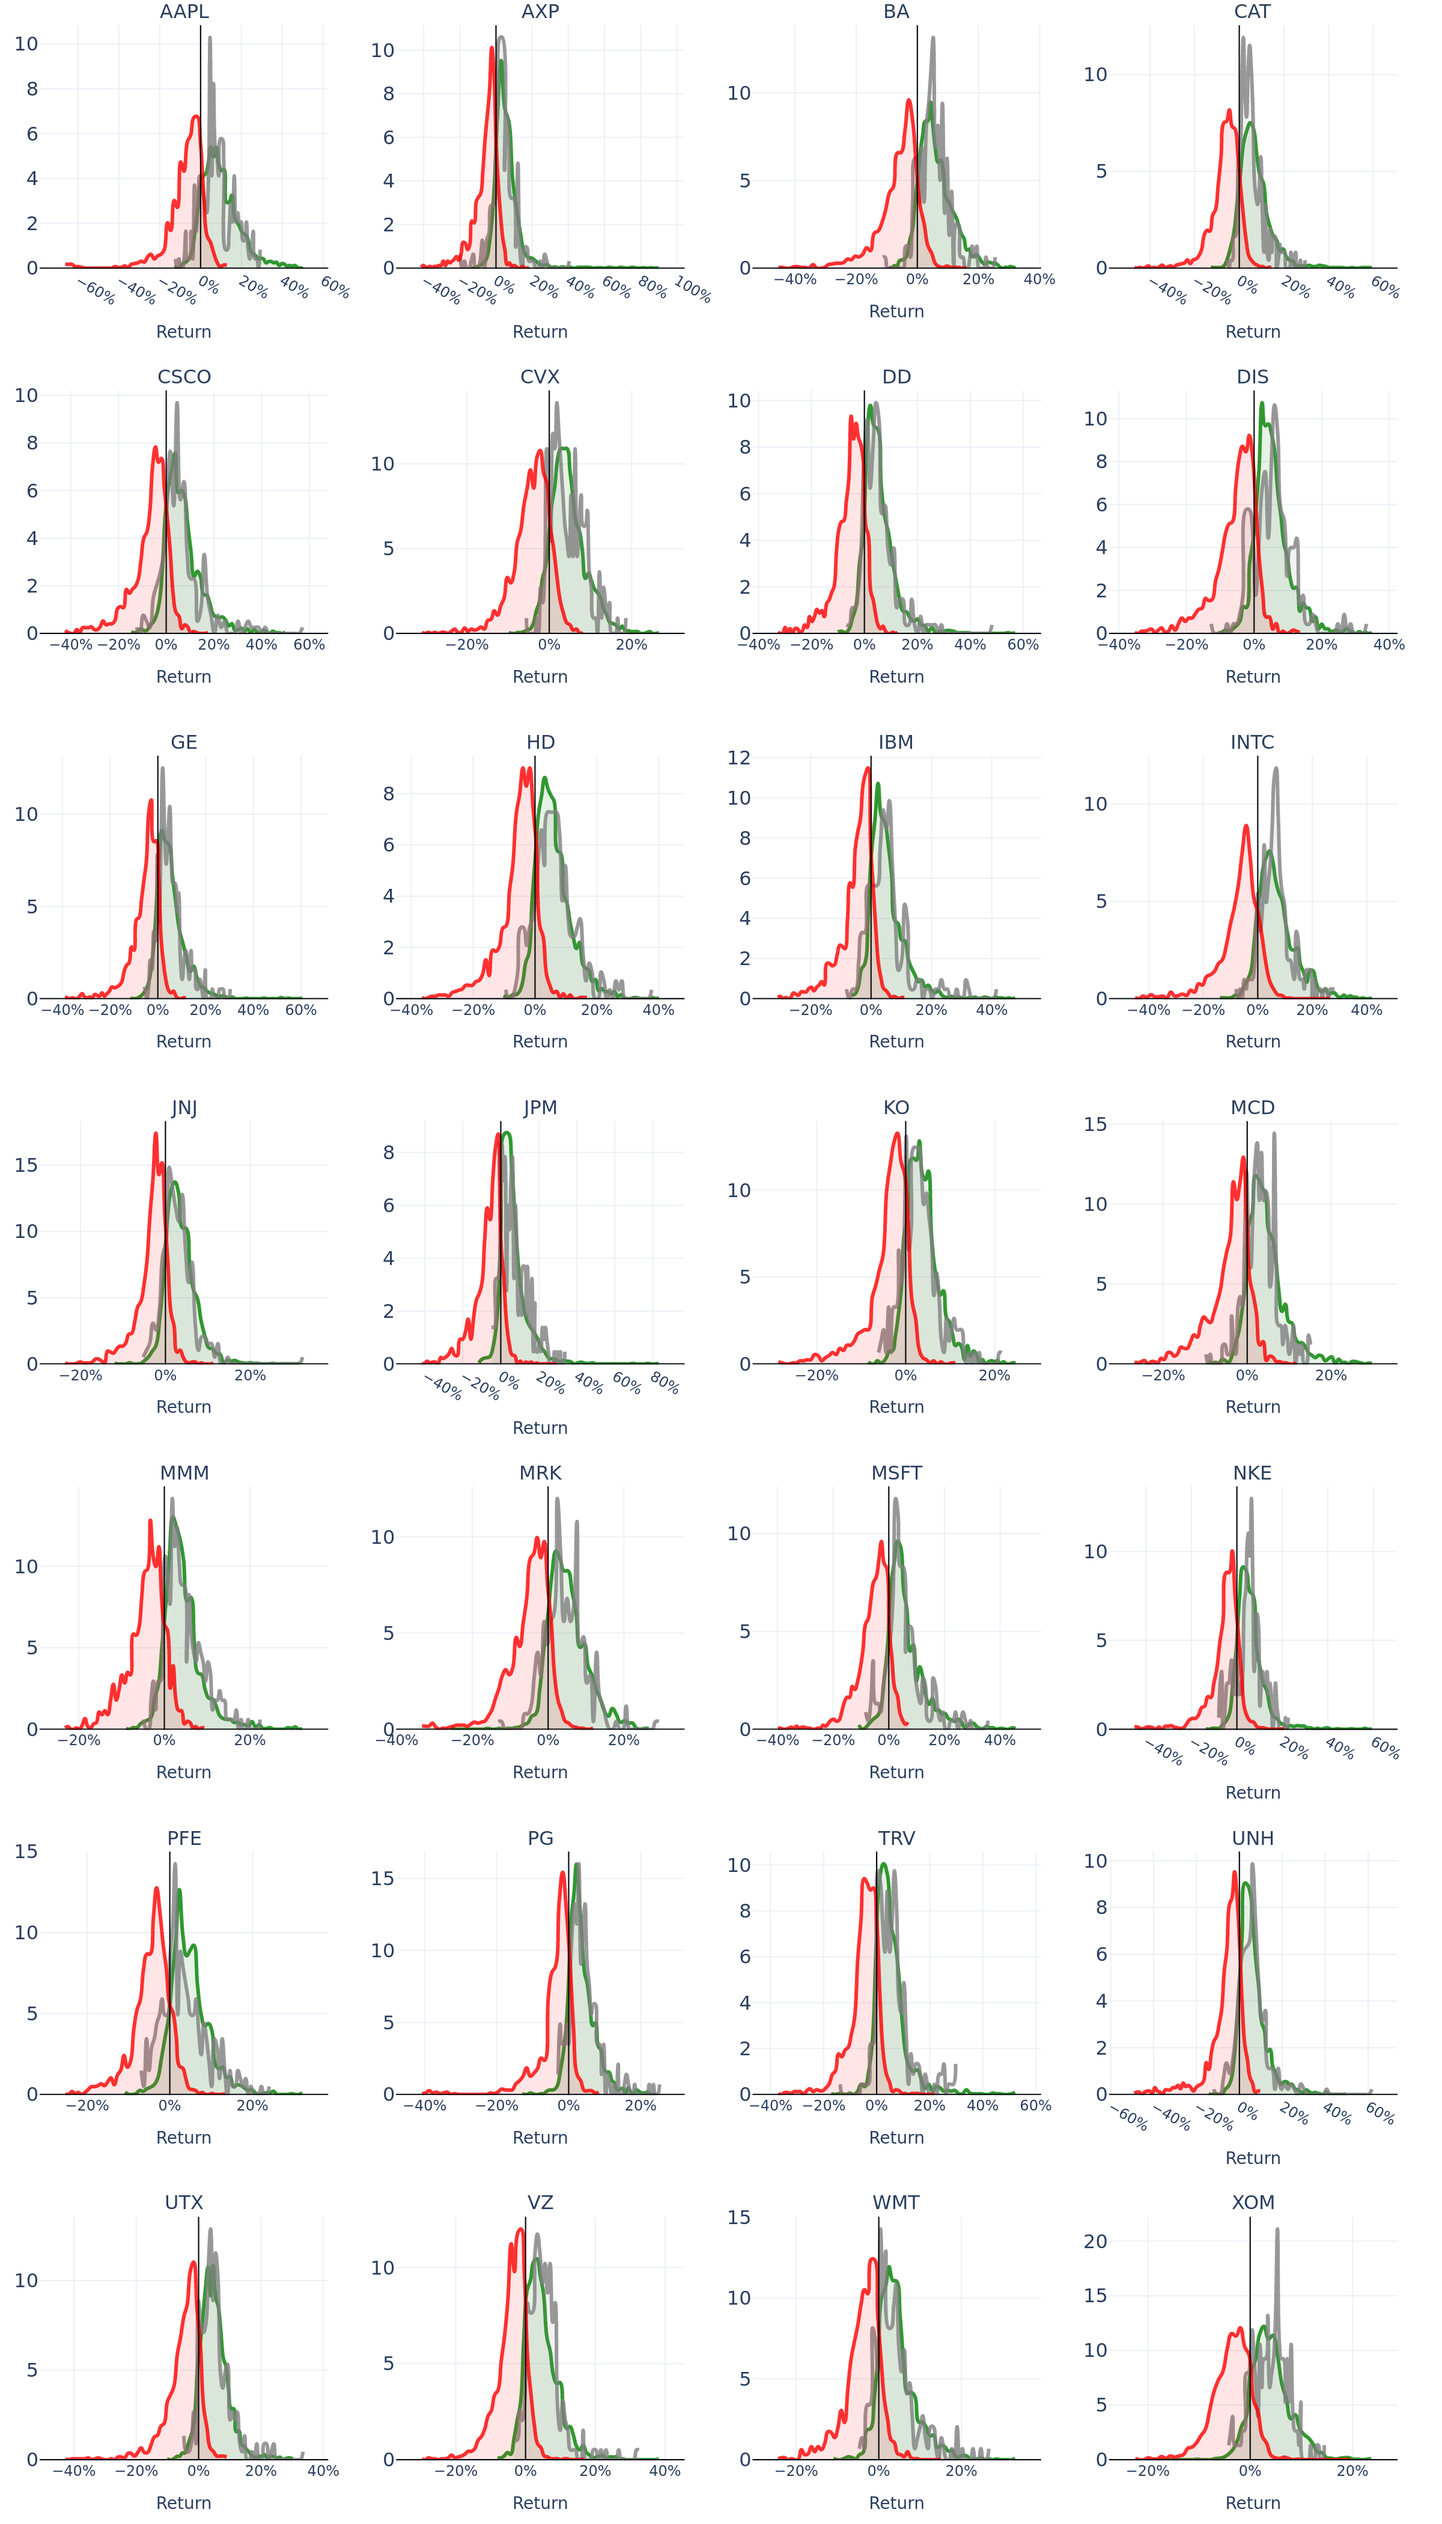
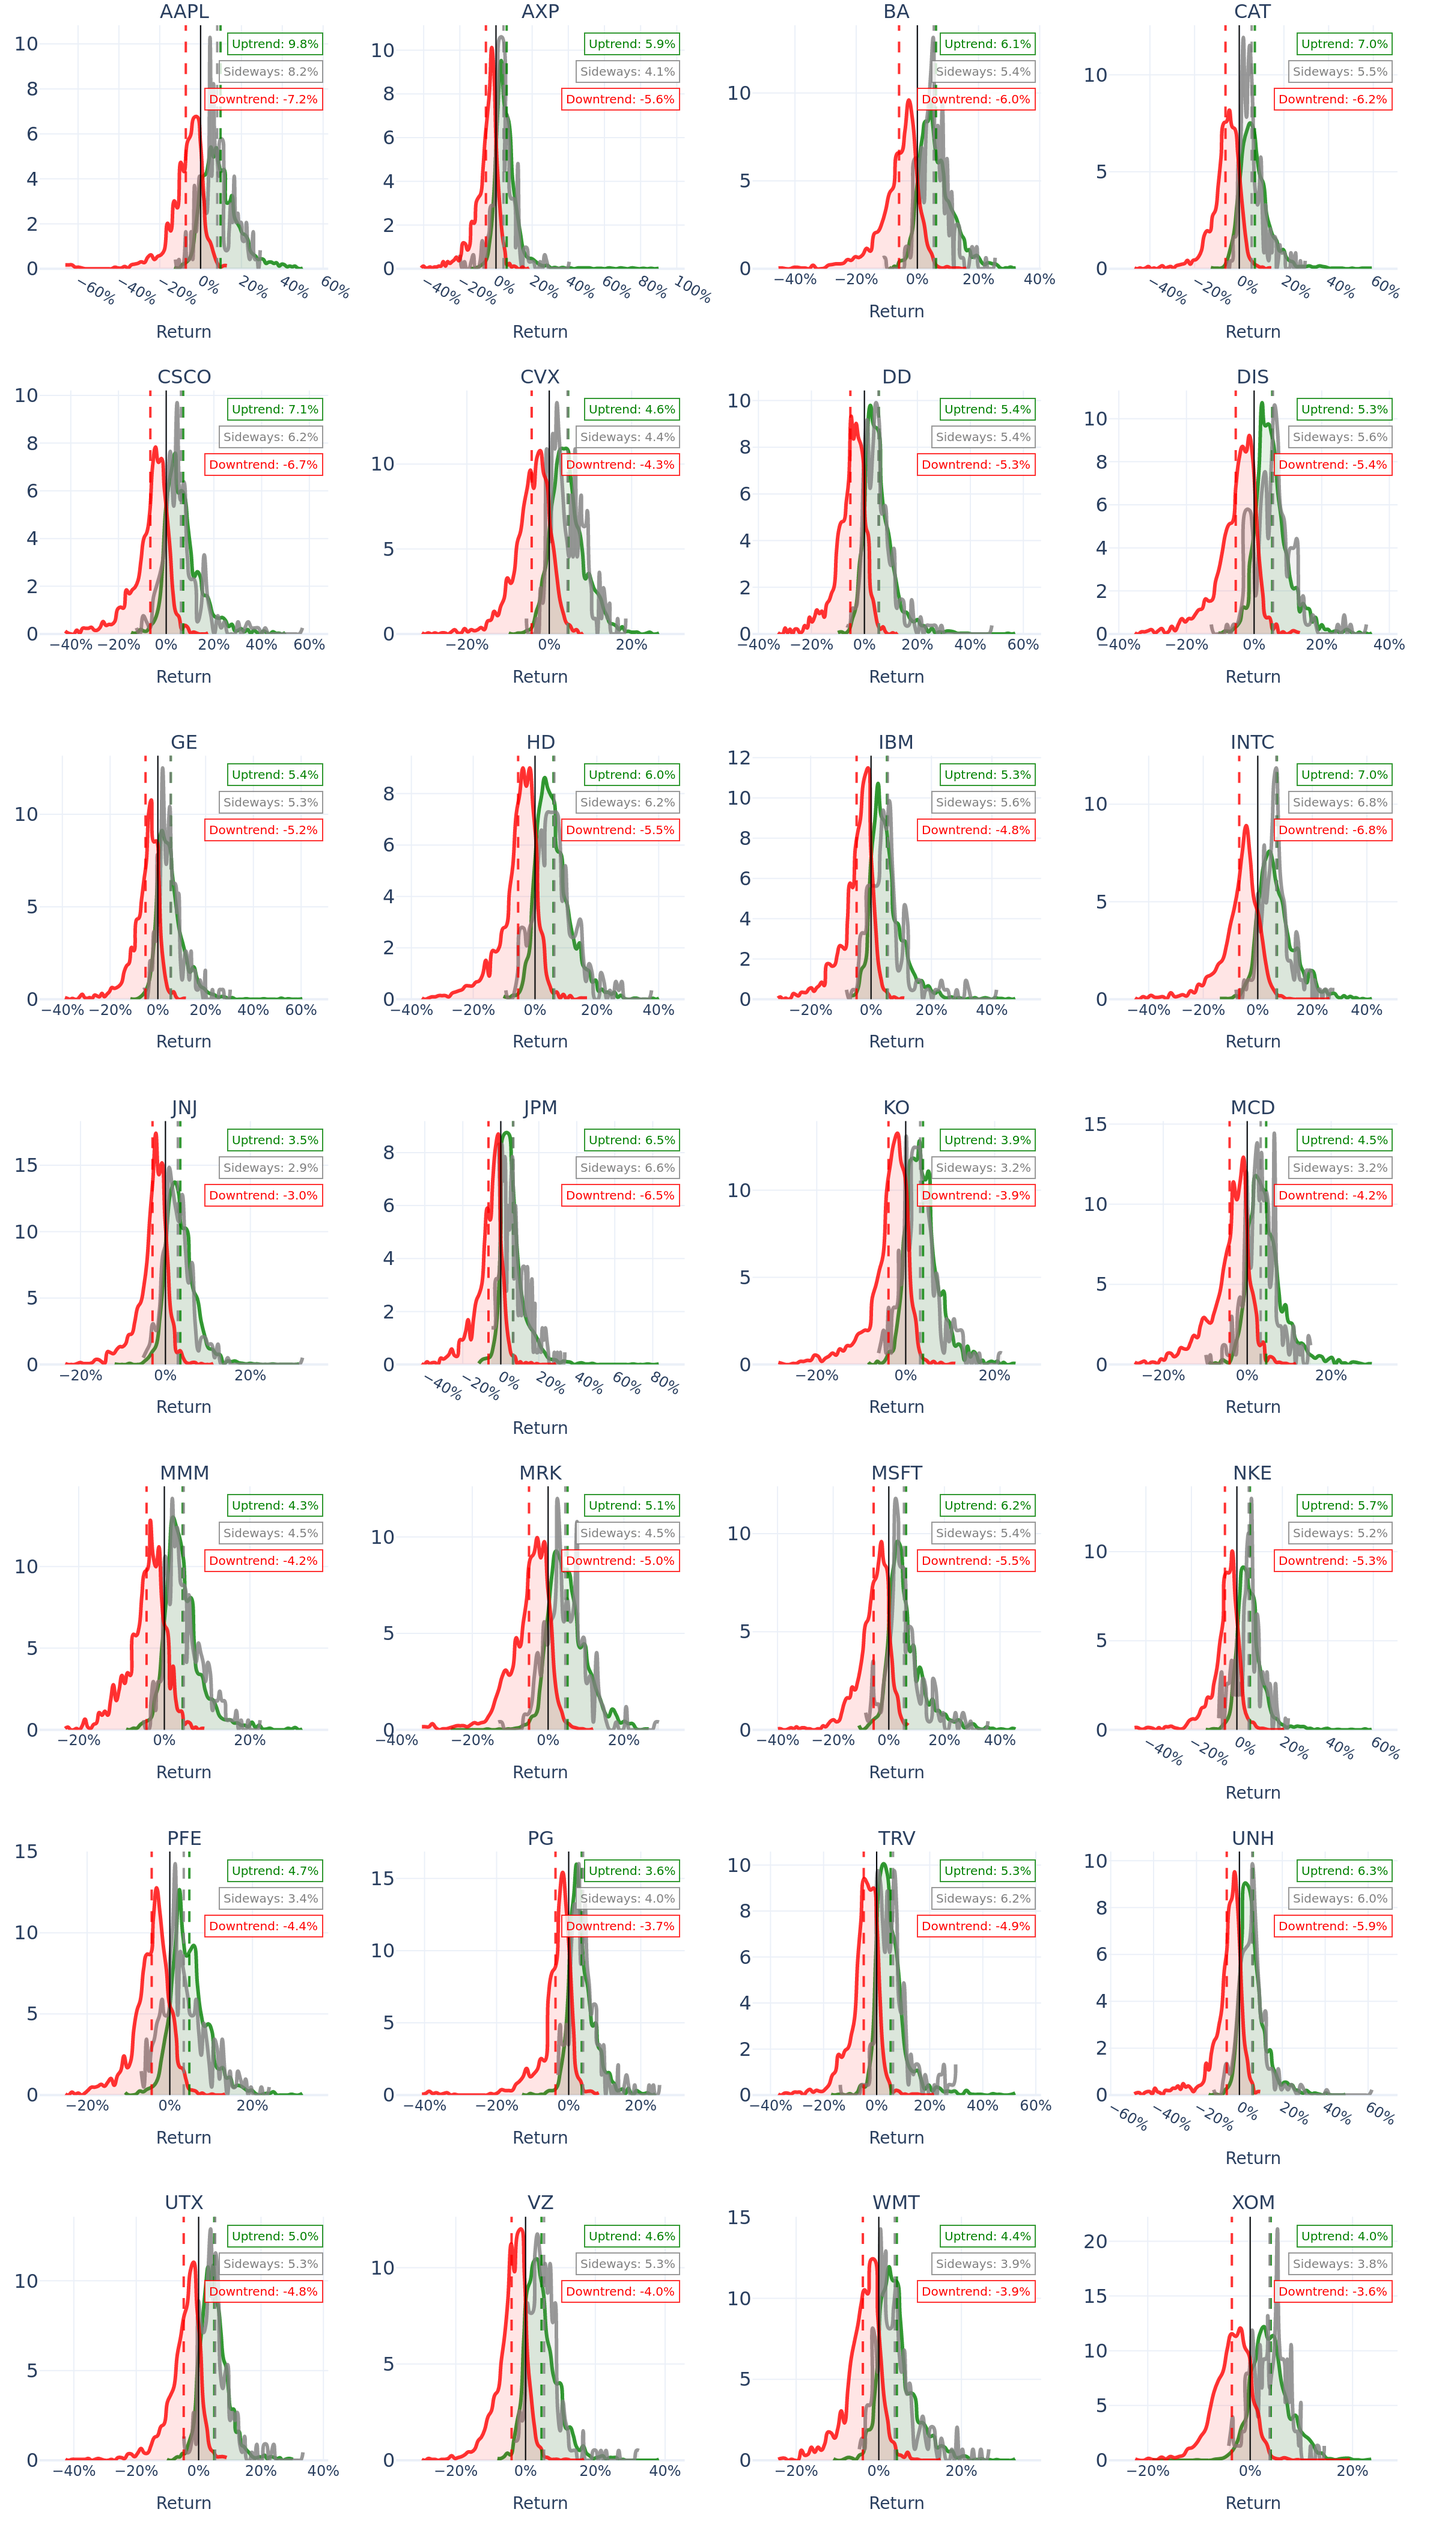
Update mean labels for actual label distribution plots

diff --git a/app/analysis/actual_label_return_analysis_matrix.py b/app/analysis/actual_label_return_analysis_matrix.py
@@ -398,9 +398,12 @@ def generate_combined_matrix_plot(model: str, feature_set: str, window_size: int
                 return
             
             # Create a subplot figure with 7 rows and 4 columns
+            rows_count = 7
+            cols_count = 4
+            
             fig = make_subplots(
-                rows=7, 
-                cols=4, 
+                rows=rows_count, 
+                cols=cols_count, 
                 subplot_titles=tickers, 
                 vertical_spacing=0.05,  # Reduced vertical spacing
                 horizontal_spacing=0.05  # Reduced horizontal spacing
@@ -427,10 +430,12 @@ def generate_combined_matrix_plot(model: str, feature_set: str, window_size: int
                 # Generate the combined return distribution plot for the ticker
                 ticker_fig = plot_combined_returns_distribution(returns_results, ticker)
                 
+                # Calculate the row and column for this subplot
+                row = (idx // cols_count) + 1
+                col = (idx % cols_count) + 1
+                
                 # Extract the data from the ticker's figure and add it to the subplot
                 for trace in ticker_fig.data:
-                    row = (idx // 4) + 1
-                    col = (idx % 4) + 1
                     fig.add_trace(trace, row=row, col=col)
                 
                 # Determine the range for x-axis
@@ -446,11 +451,79 @@ def generate_combined_matrix_plot(model: str, feature_set: str, window_size: int
                     x_min = min_return - range_padding
                     x_max = max_return + range_padding
                     
-                    # Add vertical and horizontal lines at zero
-                    row = (idx // 4) + 1
-                    col = (idx % 4) + 1
+                    # Add vertical line at zero
                     fig.add_vline(x=0, line_dash="solid", line_color="black", line_width=1, row=row, col=col)
-                    fig.add_hline(y=0, line_dash="solid", line_color="black", line_width=1, row=row, col=col)
+                    
+                    # Add vertical lines for the mean of each trend return
+                    label_names = {0: "Uptrend", 1: "Sideways", 2: "Downtrend"}
+                    colors = {0: "rgba(0, 128, 0, 0.8)", 1: "rgba(128, 128, 128, 0.8)", 2: "rgba(255, 0, 0, 0.8)"}
+                    
+                    # Add mean lines for each trend type
+                    for label in sorted(returns_results.keys()):
+                        if label in returns_results and returns_results[label]['count'] > 0:
+                            mean_return = returns_results[label]['mean']
+                            
+                            # Add vertical line for the mean
+                            fig.add_vline(
+                                x=mean_return,
+                                line_dash="dash",
+                                line_color=colors[label],
+                                line_width=2,
+                                row=row,
+                                col=col
+                            )
+                    
+                    # Use the subplot axes directly for annotations
+                    # This ensures correct positioning in each subplot
+                    if row == 1 and col == 1:
+                        xref = "x"
+                        yref = "y"
+                    else:
+                        subplot_idx = (row - 1) * cols_count + col
+                        xref = f"x{subplot_idx}"
+                        yref = f"y{subplot_idx}"
+                    
+                    # Set the annotation positions as a fraction of the max data value
+                    # Get the max y value from the data for this subplot
+                    max_y_values = []
+                    for label in returns_results:
+                        if label in returns_results and returns_results[label]['count'] > 0:
+                            hist, bin_edges = np.histogram(returns_results[label]['data']['return'], bins=50, density=True)
+                            max_y_values.append(max(hist))
+                    
+                    if max_y_values:
+                        max_y = max(max_y_values)
+                        # Position the labels at the top using data coordinates
+                        y_positions = {
+                            0: max_y * 1.02, # Uptrend at 98% of max height
+                            1: max_y * 0.9,# Sideways at 85% of max height
+                            2: max_y * 0.78 # Downtrend at 72% of max height
+                        }
+                        
+                        for label in sorted(returns_results.keys()):
+                            if label in returns_results and returns_results[label]['count'] > 0:
+                                mean_return = returns_results[label]['mean']
+                                
+                                # Add annotation using data coordinates
+                                fig.add_annotation(
+                                    x=x_max - range_padding * 0.2,  # Position near right edge
+                                    y=y_positions[label],
+                                    text=f"{label_names[label]}: {mean_return:.1%}",
+                                    showarrow=False,
+                                    font=dict(
+                                        size=10,
+                                        color=colors[label].replace("0.8", "1.0")
+                                    ),
+                                    xref=xref,
+                                    yref=yref,
+                                    align="right",
+                                    xanchor="right",
+                                    yanchor="top",
+                                    bgcolor="rgba(255, 255, 255, 0.8)",
+                                    bordercolor=colors[label],
+                                    borderwidth=1,
+                                    borderpad=3
+                                )
                     
                     # Calculate adaptive tick values
                     range_span = x_max - x_min
